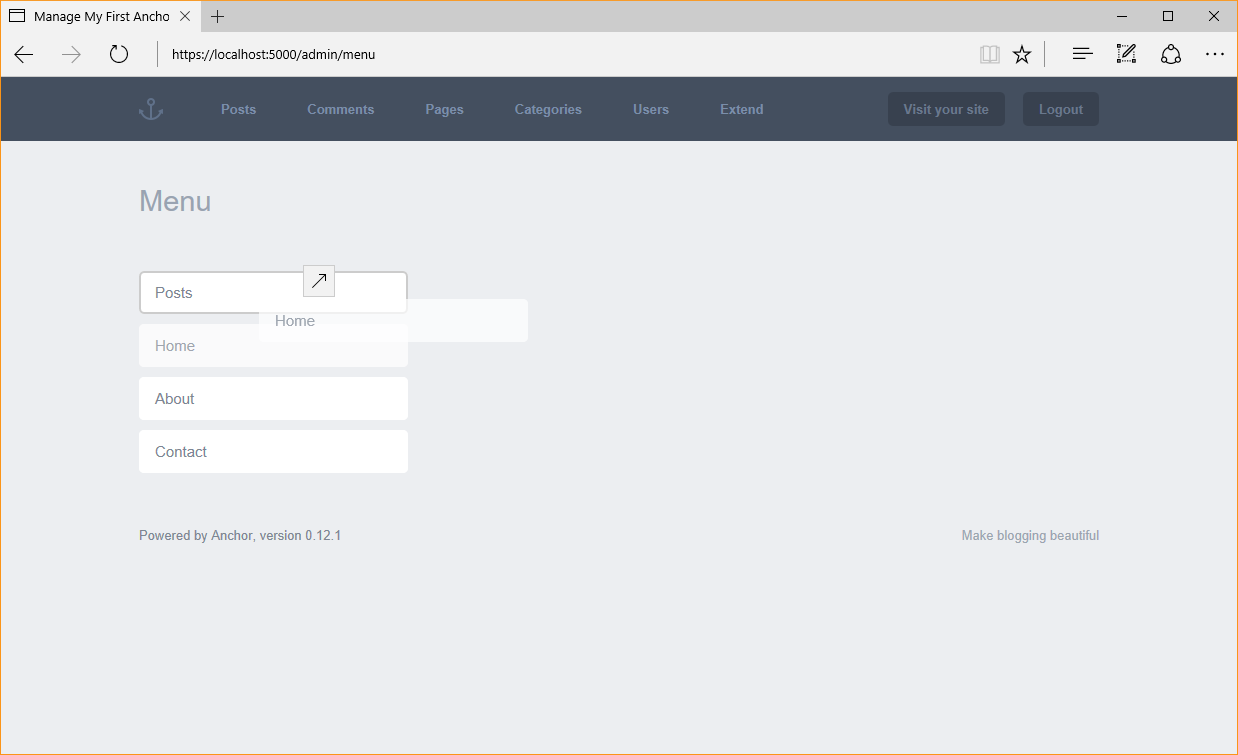
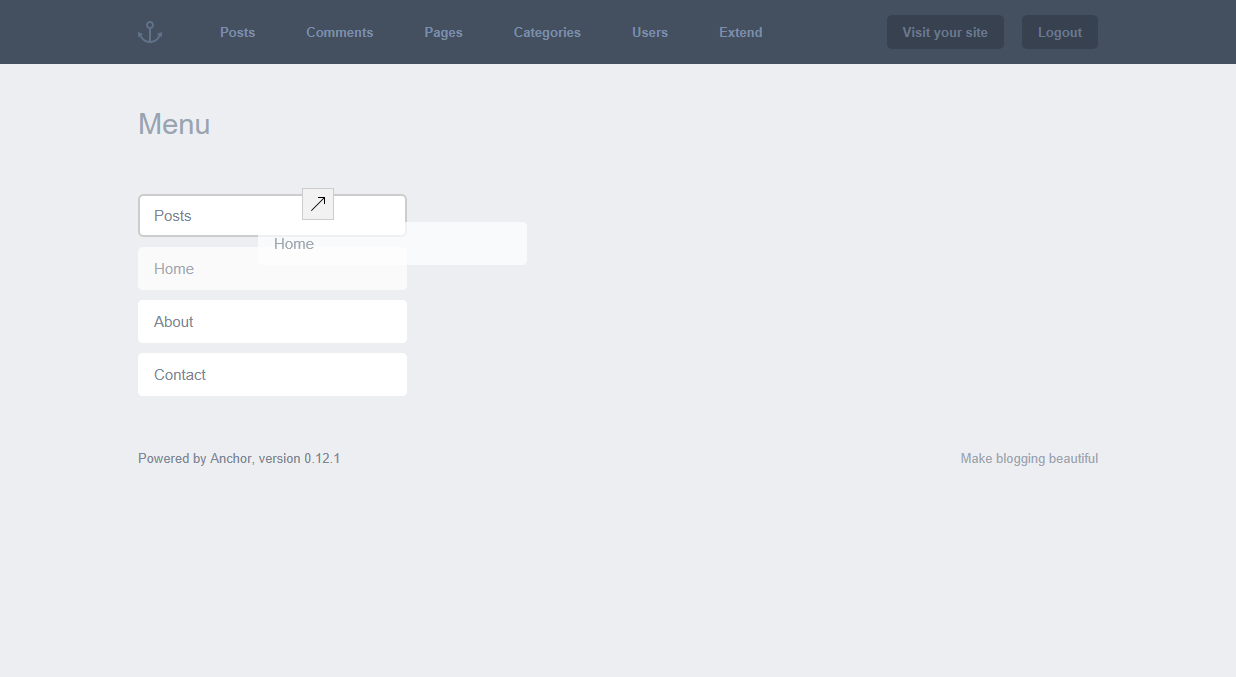
Amends styles back, crops new screeenshots, tidys up pages formatting

diff --git a/css/styles.scss b/css/styles.scss
@@ -21,17 +21,8 @@ $twitter: #00aced;
 $facebook: #3B5999;
 $google: #e34429;
 $white: #ffffff;
-$shadow: #222222;
 
 // Prefix Mixins
-
-@mixin transition($transition: .2s) {
-	-webkit-transition: $transition;
-	-moz-transition: $transition;
-	-o-transition: $transition;
-	-ms-transition: $transition;
-	transition: $transition;
-}
 
 @mixin box-shadow($shadow: 0 0 20px fade-out($subtitle, 0.75)) {
 	-webkit-box-shadow: $shadow;
@@ -39,6 +30,14 @@ $shadow: #222222;
 	-o-box-shadow: $shadow;
 	-ms-box-shadow: $shadow;
 	box-shadow: $shadow;
+}
+
+@mixin transition($transition: .2s) {
+	-webkit-transition: $transition;
+	-moz-transition: $transition;
+	-o-transition: $transition;
+	-ms-transition: $transition;
+	transition: $transition;
 }
 
 @mixin animation($animation:slideup 2s) {
@@ -310,7 +309,7 @@ small {
 }
 
 strong {
-	font-weight: 500;
+	font-weight: 600;
 }
 
 code {
@@ -325,10 +324,6 @@ code {
 
 pre > code {
     overflow-x: scroll;
-}
-
-.dropshadow {
-	box-shadow: 0px 0px 8px $shadow;
 }
 
 ::selection {

diff --git a/managing-content/pages.md b/managing-content/pages.md
@@ -11,7 +11,7 @@ Page that you may need throughout your blog.
 
 ## The Pages screen
 
-<span class="screenshot dropshadow">![Anchor’s main pages screen](/images/pages-list.png)</span>
+![Anchor’s main pages screen](/images/pages-list.png)
 This screen will show you all of your pages, in the order that you have set them
 as. Don't worry, we'll get more into that in a little bit...
 
@@ -20,11 +20,11 @@ as. Don't worry, we'll get more into that in a little bit...
 To create a page, click the green “Create a new page” button. You’ll be greeted
 with a minimal writing interface (see below).
 
-<span class="screenshot dropshadow">![Anchor’s new page screen](/images/posts-new.png)</span>
+![Anchor’s new page screen](/images/posts-new.png)
 
 The extra fields (excluding custom fields) are explained below.
 
-#### Show in menu
+### Show in menu
 
 A toggle switch that allows Anchor to determine whether or not this page's link
 should be displayed in the menu list. Simply clicking the cross will change it to
@@ -35,48 +35,49 @@ all the pages you have created for your blog. Anchor has a very intuitive drag a
 drop reordering system for your menu, allowing you to specifically choose which
 menu items take precedence over others when the show up.
 
-<span class="screenshot dropshadow">![Anchor’s edit menu screen](/images/menu-edit.png)</span>
+![Anchor’s edit menu screen](/images/menu-edit.png)
 
-#### Name
+### Name
 
 The name of the page. Typically, this will just be the same as the title you've
 just written in, but it's what will show up in your menu - if you choose to make
 it part of the menu.
 
-#### Slug
+### Slug
 
 The unique identifier and section of your blog’s URL that tells you about the page.
-Useful for SEO and usability (or guessability).
+Useful for SEO and usability (or "guessability").
 
-<pre><span class="comment">http://mydomain.com/blog/</span><b>my-page-slug-example</b></pre>
+<code class="highlighter-rouge">
+http://mydomain.com/blog/<strong>my-page-slug-example</strong>
+</code>
 
-#### Status
+
+### Status
 
 By default, a page can have three statuses attached to it:
 
 -	**Published** — publicly viewable and searchable.
-
 -	**Draft** — private. Not viewable or searchable on your site. You do not need
  	to complete all required fields to save a draft article.
-
 -	**Archived** — semi-private. Not searchable, but visible via direct URL
     (i.e guessing the slug).
 
-#### Parent
+### Parent
 
 By default, this value is set to **None**, but if this page is more of a child rather
 than a standalone, then you can select a parent page here. This is useful for when
 your blog has a lot of similar information that is split across pages that are under
 the same category.
 
-#### Page Type
+### Page Type
 
 The [Page Type](#) field allows you to determine what "type" of page you're making.
 It helps mainly with organising the admin interface so you don't have a whole bunch
 of Custom Fields that your current page doesn't need. This is also useful if your
 theme allows has custom page templates for certain parts of your blog.
 
-#### Custom Fields (optional)
+### Custom Fields (optional)
 
 Your [Custom Fields](/docs/managing-content/custom-fields); the show up automatically,
 so you should know what these are; you created them!
